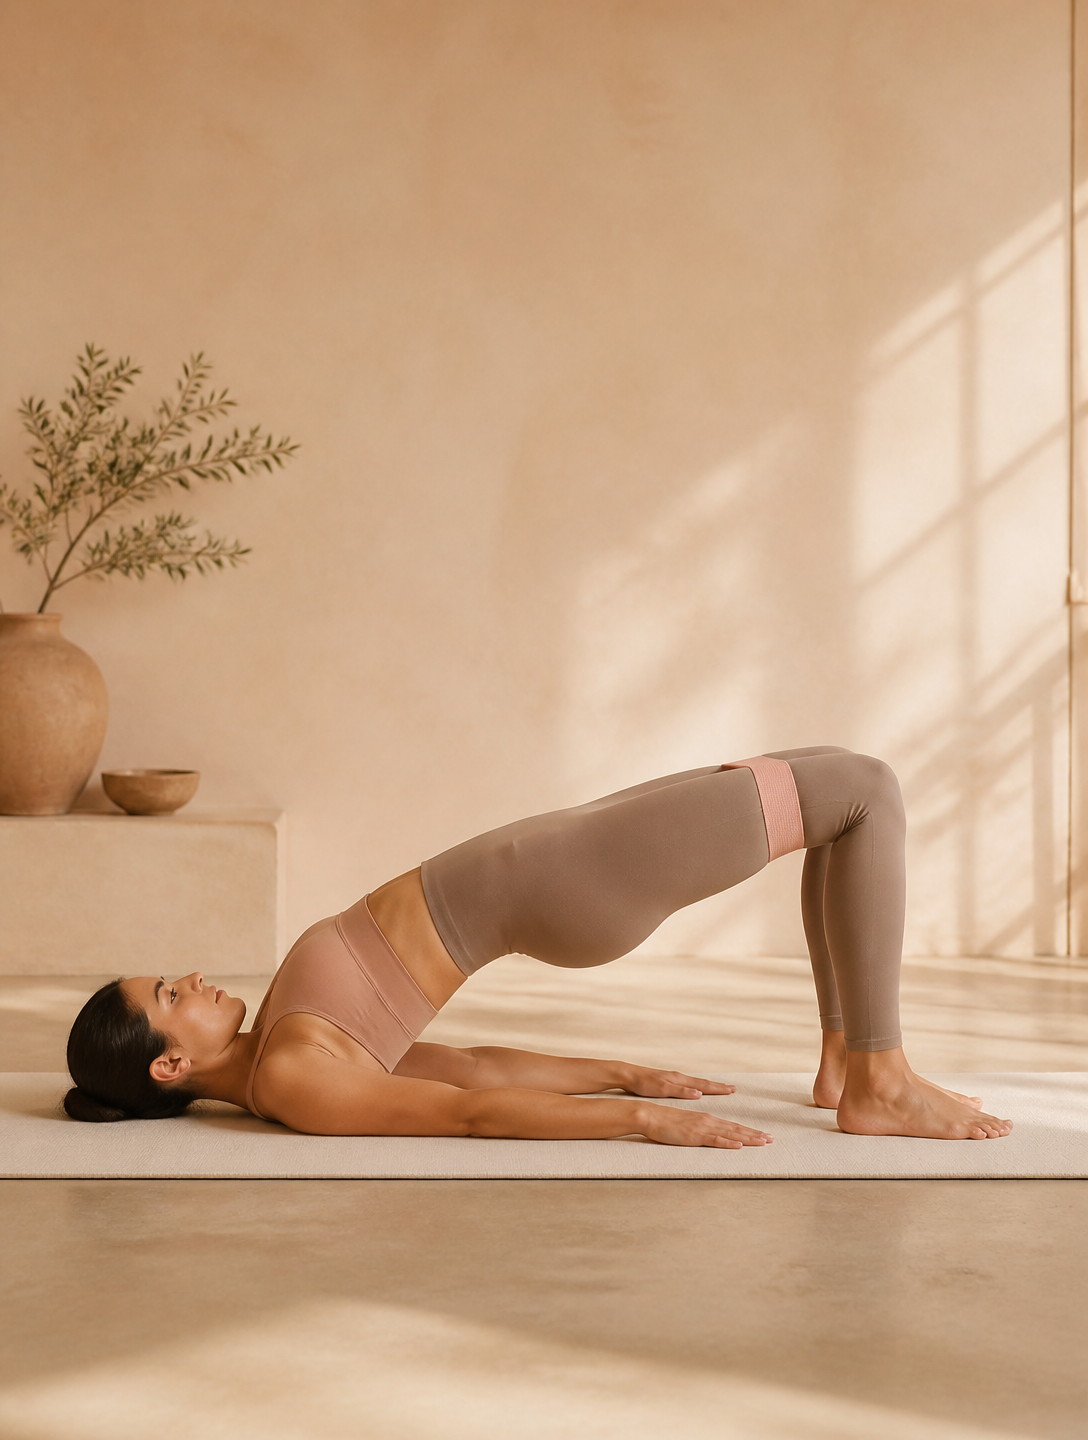
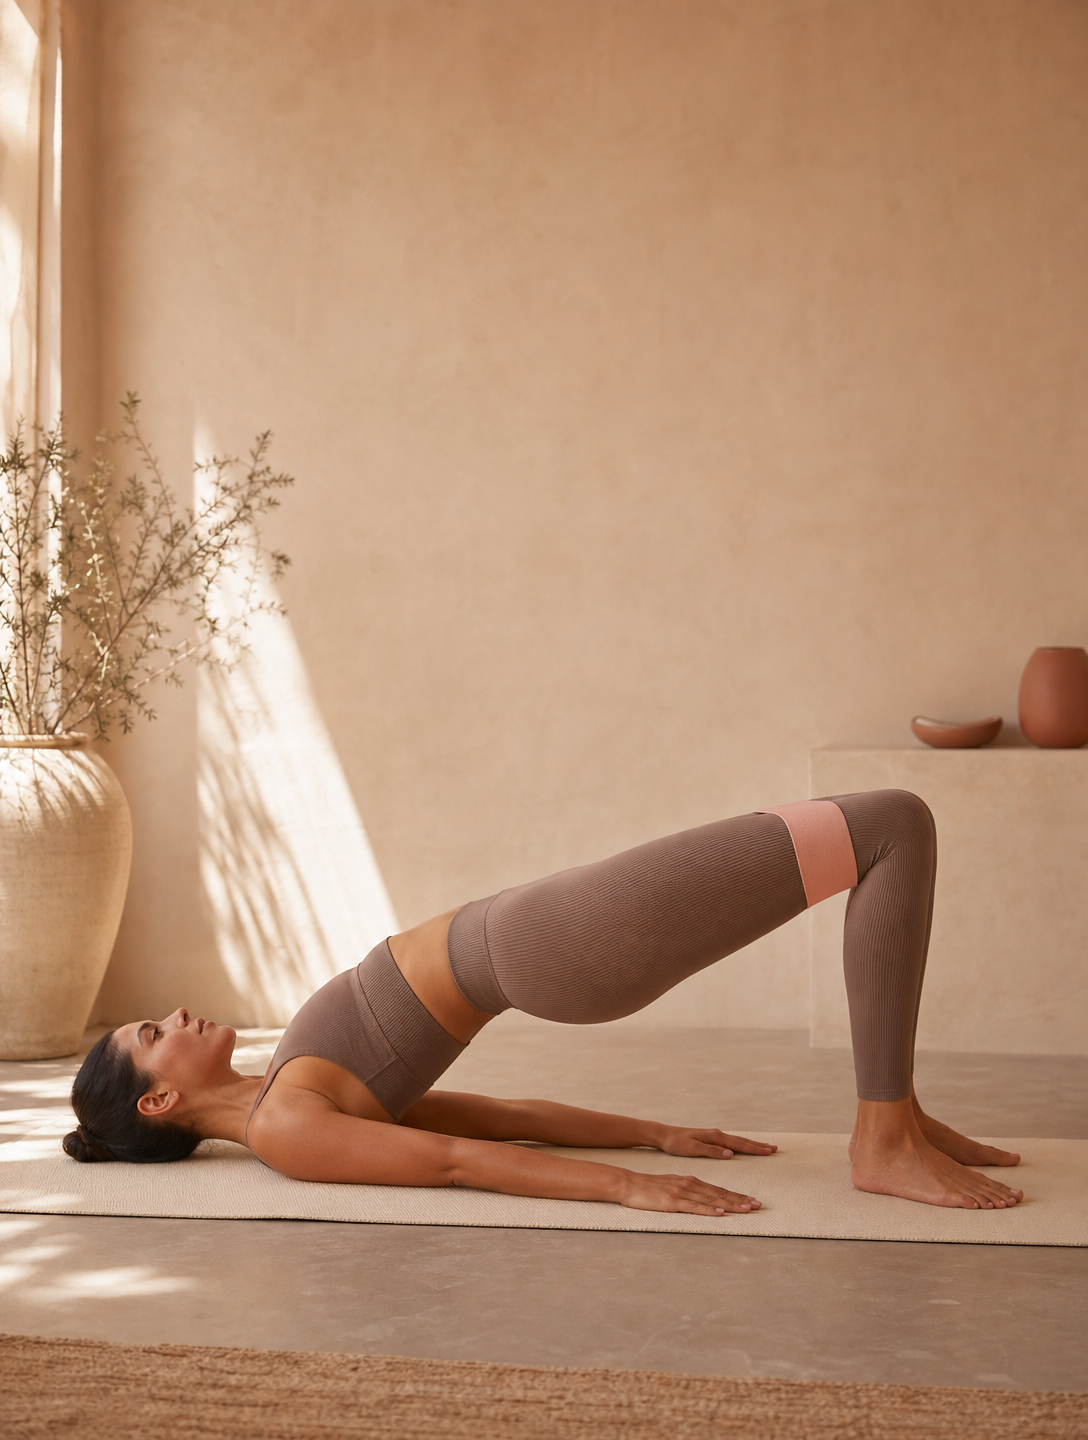
Session 016: Friday teaser Reel rendered, action backgrounds re-rendered, scripts made portable
- Pushed Session 015 backlog to GitHub.
- gen_action_bg.py + overlay_action_tiles.py: derive workspace root from
  __file__ so they run in both Cowork and Claude Code; added a quality arg
  and a streaming path to gen_action_bg.py.
- Re-rendered the 3 action backgrounds at MEDIUM quality (kept -low
  filenames). True-high is blocked in Claude Code by a ~60s network idle
  cap; upgrade path is a native terminal or org verification (see memory.md).
- Rebuilt tagline tiles; copied backgrounds into the sportif-teaser
  composition.
- sportif-teaser: marked intentional Ken Burns overflow with
  data-layout-allow-overflow (check now 0/0/0); rendered the 13s 1080x1920
  Reel (launch-ready for Friday 2026-07-10).

diff --git a/compositions/sportif-teaser/index.html b/compositions/sportif-teaser/index.html
@@ -178,7 +178,7 @@
 
       <!-- Scene 2: everyday training, elevated -->
       <div id="s2" class="clip scene" data-start="3" data-duration="3" data-track-index="2">
-        <div class="photo-wrap"><img id="s2-img" src="images/bg-action-training-low.png" alt="" /></div>
+        <div class="photo-wrap"><img id="s2-img" src="images/bg-action-training-low.png" alt="" data-layout-allow-overflow /></div>
         <div class="scene-copy">
           <div class="tagline-line" id="s2-l1">Everyday training,</div>
           <div class="tagline-line" id="s2-l2">elevated.</div>
@@ -188,7 +188,7 @@
 
       <!-- Scene 3: too fashionable not to WEAR -->
       <div id="s3" class="clip scene" data-start="5.6" data-duration="3" data-track-index="1">
-        <div class="photo-wrap"><img id="s3-img" src="images/bg-action-fashion-low.png" alt="" /></div>
+        <div class="photo-wrap"><img id="s3-img" src="images/bg-action-fashion-low.png" alt="" data-layout-allow-overflow /></div>
         <div class="scene-copy">
           <div class="tagline-line" id="s3-l1">Too fashionable</div>
           <div class="tagline-line" id="s3-l2">not to WEAR!</div>
@@ -198,7 +198,7 @@
 
       <!-- Scene 4: for your morning ritual -->
       <div id="s4" class="clip scene" data-start="8.2" data-duration="3" data-track-index="2">
-        <div class="photo-wrap"><img id="s4-img" src="images/bg-action-ritual-low.png" alt="" /></div>
+        <div class="photo-wrap"><img id="s4-img" src="images/bg-action-ritual-low.png" alt="" data-layout-allow-overflow /></div>
         <div class="scene-copy">
           <div class="tagline-line" id="s4-l1">For your</div>
           <div class="tagline-line" id="s4-l2">morning ritual.</div>

diff --git a/clients/sportif/scripts-local/gen_action_bg.py b/clients/sportif/scripts-local/gen_action_bg.py
@@ -1,8 +1,10 @@
 #!/usr/bin/env python3
 """Generate text-free action/lifestyle images for the tagline tiles (gpt-image-2).
 
-Usage: python3 gen_action_bg.py <variant>   variant = training | fashion | ritual
-Quality low (Cowork iteration); winner re-renders high in Claude Code.
+Usage: python3 gen_action_bg.py <variant> [quality]
+  variant = training | fashion | ritual
+  quality = low (default, Cowork iteration) | high (finals in Claude Code)
+Filenames stay -low regardless of quality so downstream references do not move.
 Each prompt reserves soft negative space in the upper third for the tagline.
 """
 
@@ -10,8 +12,9 @@ import base64
 import json
 import sys
 import urllib.request
+from pathlib import Path
 
-ROOT = "/sessions/cool-inspiring-shannon/mnt/hyperframes"
+ROOT = str(Path(__file__).resolve().parents[3])
 OUT = f"{ROOT}/clients/sportif/generated/images/grid-banner"
 
 COMMON = (
@@ -68,24 +71,68 @@ def key():
 
 def main():
     variant = sys.argv[1]
-    body = json.dumps({
+    quality = sys.argv[2] if len(sys.argv) > 2 else "low"
+    # High quality can take longer than the ~60s synchronous gateway timeout,
+    # which drops the connection (RemoteDisconnected). Stream with partial
+    # images so data keeps flowing and the connection never idles out.
+    stream = quality == "high"
+    payload = {
         "model": "gpt-image-2",
         "prompt": PROMPTS[variant],
         "size": "1088x1440",
-        "quality": "low",
+        "quality": quality,
         "n": 1,
-    }).encode()
+    }
+    if stream:
+        payload["stream"] = True
+        # Max partials: keepalive bytes arrive ~every 25s, under the ~60s
+        # idle timeout that otherwise drops the connection (RemoteDisconnected).
+        payload["partial_images"] = 3
     req = urllib.request.Request(
         "https://api.openai.com/v1/images/generations",
-        data=body,
+        data=json.dumps(payload).encode(),
         headers={"Authorization": f"Bearer {key()}",
                  "Content-Type": "application/json"},
     )
-    with urllib.request.urlopen(req, timeout=40) as r:
-        data = json.load(r)
-    with open(f"{OUT}/bg-action-{variant}-low.png", "wb") as f:
-        f.write(base64.b64decode(data["data"][0]["b64_json"]))
-    print("saved", variant)
+
+    outpath = f"{OUT}/bg-action-{variant}-low.png"
+
+    if not stream:
+        with urllib.request.urlopen(req, timeout=300) as r:
+            data = json.load(r)
+        with open(outpath, "wb") as f:
+            f.write(base64.b64decode(data["data"][0]["b64_json"]))
+        print("saved", variant, quality)
+        return
+
+    # Stream the SSE response. Write every b64 frame as it arrives (partials
+    # are progressive full-size renders; the final completed event is best) so
+    # a late idle-timeout disconnect still leaves the best frame on disk.
+    last_type = None
+    got = False
+    try:
+        with urllib.request.urlopen(req, timeout=600) as r:
+            for raw in r:
+                line = raw.decode("utf-8").strip()
+                if not line.startswith("data:"):
+                    continue
+                chunk = line[len("data:"):].strip()
+                if not chunk or chunk == "[DONE]":
+                    continue
+                evt = json.loads(chunk)
+                if evt.get("b64_json"):
+                    with open(outpath, "wb") as f:
+                        f.write(base64.b64decode(evt["b64_json"]))
+                    got = True
+                    last_type = evt.get("type")
+                    print("  frame:", last_type)
+    except Exception as e:
+        if not got:
+            raise
+        print("  stream dropped, keeping last frame:", type(e).__name__)
+    if not got:
+        raise SystemExit(f"no image in stream for {variant}")
+    print("saved", variant, quality, "(final event:", last_type, ")")
 
 
 if __name__ == "__main__":

diff --git a/clients/sportif/scripts-local/overlay_action_tiles.py b/clients/sportif/scripts-local/overlay_action_tiles.py
@@ -1,10 +1,13 @@
 #!/usr/bin/env python3
 """Overlay taglines onto the action backgrounds (text in the upper third)."""
 
+from pathlib import Path
+
 from PIL import Image, ImageDraw, ImageFont, ImageFilter
 
-FONT = "/sessions/cool-inspiring-shannon/mnt/hyperframes/brand/fonts/glacial-indifference/GlacialIndifference-Regular.otf"
-OUT = "/sessions/cool-inspiring-shannon/mnt/hyperframes/clients/sportif/generated/images/grid-banner"
+ROOT = Path(__file__).resolve().parents[3]
+FONT = str(ROOT / "brand/fonts/glacial-indifference/GlacialIndifference-Regular.otf")
+OUT = str(ROOT / "clients/sportif/generated/images/grid-banner")
 
 TILE_W, TILE_H = 1080, 1440
 CREAM = (250, 245, 238)

diff --git a/memory.md b/memory.md
@@ -6,7 +6,7 @@ Running log of what we've done, what we've learned, decisions made, and question
 
 ## CURRENT STATE (update this block every session, keep it to ~12 lines)
 
-*Last updated: 2026-07-08 | Last session: 015 (Cowork, CLOSED) | Working tree: committed clean | Local ahead of GitHub by two Session 015 commits (push from Claude Code) | Next: Session 016 (Claude Code) runs the Friday launch handoff jobs listed in Session 015's open items*
+*Last updated: 2026-07-08 | Last session: 016 (Claude Code, CLOSED) | Working tree: committed clean | Git synced with GitHub | Next: get Lucy's feedback, then optionally re-render backgrounds at TRUE high on a native terminal (see Session 016)*
 
 - **Client: Sportif.** Strategy LOCKED: Lucy Wayne is the differentiator, parallel wholesale + DTC, one hub (sportifcollection.com.au + @sportifcollection + email). Launch September 2026; 500 band units due early July (may have already landed, confirm with Lucy).
 - **Current Lucy-facing docs: exactly two PDFs**, `Sportif-Brand-Value-Plan.pdf` (strategy) + `Sportif-Launch-Plan.pdf` (operations). Everything else archived in `clients/sportif/_archive/superseded-pdfs-2026-07/`.
@@ -16,9 +16,41 @@ Running log of what we've done, what we've learned, decisions made, and question
 - **Next build steps once unblocked:** Shopify coming-soon page (research done), store build, Klaviyo flows (account to be created after Shopify), ambassador/instructor seeding shortlist (main growth engine, not started).
 - **Also open:** trademark clearance (with lawyer), materials question (gates sustainability copy), Stage 3 synthesis template + Seedance adapter, PDF generators still on Poppins (switch to real font on next edit).
 - **Grid banner READY (Session 015):** 3-tile SPORTIF wordmark banner in three colourways at `clients/sportif/generated/images/grid-banner/`, peach/white is the on-brand pick. Posting recipe PROVEN on a mock account: 1080x1440 tiles, tap Original on the crop screen (default 1:1 crop breaks it), post right tile first, or reorder afterwards (IG added grid drag-reorder June 2026).
-- **INSTA LAUNCH IS THIS FRIDAY (2026-07-10).** Tagline row drafts (4 directions, action row is the lead) sent to Lucy for feedback. CLAUDE CODE TONIGHT: re-render the 3 action backgrounds at quality high, rebuild tiles, then render `compositions/sportif-teaser/` (lint-clean, needs Chrome: npm run check, then render) after swapping its images for the high-res versions.
+- **INSTA LAUNCH IS THIS FRIDAY (2026-07-10). TEASER REEL IS RENDERED AND LAUNCH-READY.** `compositions/sportif-teaser/renders/sportif-teaser_2026-07-08_12-56-55.mp4` (1080x1920, 13s, check clean 0/0/0). Backgrounds and tagline tiles rebuilt at MEDIUM quality (not high: see Session 016, the Claude Code network drops image renders over ~60s and true-high exceeds that). To upgrade to true high: run `python3 clients/sportif/scripts-local/gen_action_bg.py <variant> high` in a NATIVE Mac terminal (no 60s cap), then re-run overlay_action_tiles.py, re-copy into the composition, re-render.
+- **Still waiting on Lucy:** feedback on the four tagline-row directions and three banner colourways, plus the hero-concept pick and the blocker email reply.
 
 ---
+
+## Session 016 (2026-07-08, Claude Code): Friday launch handoff, teaser Reel rendered (backgrounds at medium, true-high blocked by a 60s network cap)
+
+Ran the Friday launch handoff jobs from Session 015. The teaser Reel is rendered and launch-ready. The one deviation: the action backgrounds are medium quality, not high, because of a network limit in the Claude Code environment (details below), with a clean upgrade path documented.
+
+### What we did
+- **Pushed the three Session 015 commits to GitHub** (`7ec00fb..7a650d1`). Local and origin/main in sync.
+- **Made both scripts-local scripts path-portable.** `gen_action_bg.py` and `overlay_action_tiles.py` hardcoded the Cowork sandbox paths, so they could not run on the Mac. Both now derive the workspace root from their own file location (`Path(__file__).resolve().parents[3]`), so they work in BOTH environments. Added a `quality` argument to `gen_action_bg.py` (default low, pass high) plus a streaming path for slow renders.
+- **Re-rendered the three action backgrounds** (training glute bridge, fashion still life, ritual morning scene) at medium quality, keeping the `bg-action-<variant>-low.png` filenames (per the handoff instruction) so downstream references did not move. Visually verified all three: correct flat band form (no coil/pastry), correct bridge anatomy, warm palette, clean upper-third negative space.
+- **Rebuilt the tagline tiles** with `overlay_action_tiles.py` (sportif-tagline-1/2/3-action.png + preview). Verified the taglines overlay legibly.
+- **Copied the three backgrounds into `compositions/sportif-teaser/images/`** (byte-verified identical to source).
+- **Ran `npm run check` on the composition.** Lint 0/0, validate no console errors. Inspect flagged 6 `container_overflow` warnings on the three scene images (the intentional Ken Burns zoom/pan overflow, which `.photo-wrap` already clips with `overflow:hidden`). Fixed by adding `data-layout-allow-overflow` to the three scene `<img>` tags. Re-check fully clean: 0 layout issues.
+- **Rendered the Reel:** `compositions/sportif-teaser/renders/sportif-teaser_2026-07-08_12-56-55.mp4`, 1080x1920, 13.0s, h264, 7.3 MB. Confirmed a sampled frame looks correct and on-brand.
+
+### What we learned
+- **The Claude Code environment drops HTTPS responses after ~60s of idle (no bytes).** High-quality gpt-image-2 at 1088x1440 takes longer than that, so the synchronous request dies with `RemoteDisconnected` at exactly 60s. This is the same class of limit as the Perplexity deep-research issue. Disabling the Bash sandbox did NOT help (the cap is outside that toggle).
+- **Streaming does not rescue it.** Instrumenting the SSE stream showed gpt-image-2 sends ONE early partial (~16s) then computes silently and batches the rest at the end, so there is a >60s gap before the completed event and the connection is killed. `partial_images:3` did not add mid-render keepalives.
+- **The proper workaround (background submit + poll) is blocked by org verification.** The Responses API background mode needs a verified org for the driver model (`gpt-4.1-mini` returned HTTP 403 "organization must be verified"). So it is unavailable until Hugo verifies the org.
+- **Medium quality (~50s) completes under the 60s cap** and is a clear step up from the low drafts. For background imagery behind taglines with Ken Burns motion, the quality difference is minor.
+- **HyperFrames `inspect` (Chrome, Claude-Code-only) catches Ken Burns overflow.** Declare intentional zoom/pan overflow with `data-layout-allow-overflow` on the animated element; the clip container keeps it visually contained.
+
+### Decisions
+- **Rendered medium, not high, this session.** The Friday deadline plus a launch-ready Reel outweighed blocking on true-high. Flagged to Hugo with the upgrade path. Kept the `-low` filenames per the handoff instruction.
+- **Two upgrade paths to TRUE high**, whenever wanted: (1) run `gen_action_bg.py <variant> high` in a NATIVE Mac terminal (Terminal.app, outside Claude Code) where there is no 60s cap, the script is now portable and has a streaming high path, then re-run overlay + copy + composition render; or (2) verify the OpenAI org and use background mode.
+- Path-portable scripts are the standard now (root from `__file__`), so scripts-local tools run in both environments.
+
+### Open questions / next
+- [ ] Optional: re-render the 3 backgrounds at TRUE high via a native terminal (or after org verification), then rebuild tiles, re-copy, re-render the Reel. Not required for Friday.
+- [ ] Lucy feedback still pending: four tagline-row directions, three banner colourways, hero-concept pick (v5/v6/v7), blocker email reply.
+- [ ] Friday posting plan: banner row, tagline row, teaser Reel as the first Reel.
+- [ ] Carried: blocker email send, Shopify coming-soon, ambassador shortlist, trademark, materials, Stage 3/4 templates, PDF generators still on Poppins, optional teaser voiceover.
 
 ## Session 015 (2026-07-08, Cowork): SPORTIF 3-tile Instagram grid banner, posting recipe proven on a mock account
 